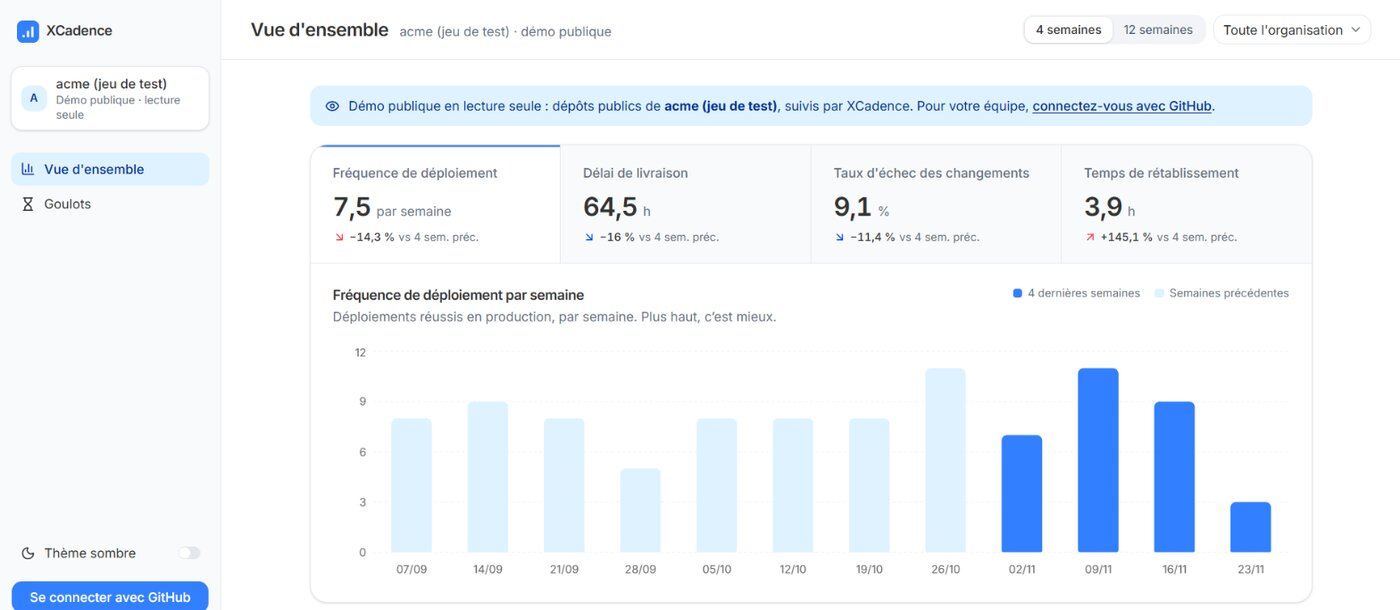
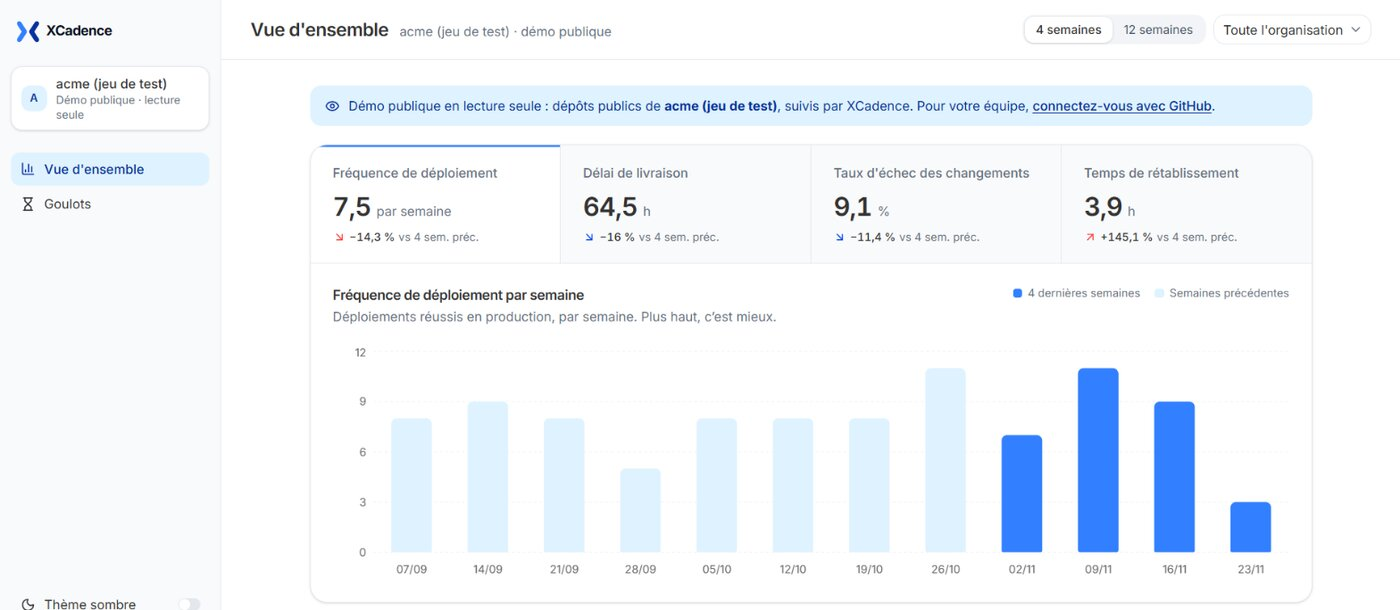
docs: met à jour le README pour la version 0.1.0, captures claire et sombre (#98)
- capture refaite avec le nouveau logo, et sa version sombre (selon le thème GitHub)
- statut : version 0.1.0 en bêta, pas encore hébergée
- démo publique et interface claire ou sombre dans les fonctionnalités
- démarrage rapide : / est la page d'accueil, /demo le tableau de bord du jeu de test

Changed region(s): [[0.0, 0.9033, 0.1536, 1.0], [0.0, 0.0311, 0.0921, 0.0934]]

diff --git a/README.md b/README.md
@@ -7,9 +7,14 @@
 
 **Radar de santé d'équipe tech.** XCadence calcule les métriques DORA et les goulots d'une équipe directement depuis GitHub, et les résume chaque semaine pour le CTO, en 5 minutes de lecture.
 
-![Tableau de bord de XCadence sur le jeu de test : fréquence de déploiement, délai de livraison, taux d'échec des changements, temps de rétablissement](docs/images/tableau-de-bord.jpg)
+<picture>
+  <source media="(prefers-color-scheme: dark)" srcset="docs/images/tableau-de-bord-sombre.jpg">
+  <img src="docs/images/tableau-de-bord.jpg" alt="Tableau de bord de XCadence sur le jeu de test : fréquence de déploiement, délai de livraison, taux d'échec des changements, temps de rétablissement, en onglets, et la métrique choisie semaine par semaine">
+</picture>
 
-_Capture sur le jeu de test (`pnpm db:seed`) : organisation et données fictives._
+_Capture sur le jeu de test (`pnpm db:seed`) : organisation et données fictives. Version claire ou sombre selon votre thème GitHub._
+
+> **Version 0.1.0, bêta.** Les fonctionnalités ci-dessous sont en place et testées ; la version hébergée n'est pas encore en ligne : pour l'essayer, lancez-la en local (démarrage rapide) ou hébergez-la vous-même.
 
 ## Ce que fait XCadence
 
@@ -17,6 +22,8 @@ _Capture sur le jeu de test (`pnpm db:seed`) : organisation et données fictives
 - **Les 4 métriques DORA**, par dépôt et par semaine, avec leur tendance : fréquence de déploiement, délai de livraison, taux d'échec des changements, temps de rétablissement.
 - **Les goulots** : PR qui attendent une revue, PR anciennes, CI lente ou instable.
 - **Un résumé hebdomadaire** de 5 lignes, écrit par une IA et vérifié chiffre par chiffre, envoyé par email chaque lundi.
+- **Une démo publique** en lecture seule, sur des dépôts publics, sans compte ni installation.
+- **Une interface claire ou sombre**, responsive du téléphone au grand écran.
 
 **Ce que XCadence ne fait pas :** classer ou noter des développeurs. L'outil mesure l'équipe et le processus, jamais la performance individuelle. Il ne stocke aucun code source, seulement des métadonnées (dates, tailles, statuts).
 
@@ -35,7 +42,7 @@ Vous n'installez que **Docker** et **VS Code** avec l'extension **Dev Containers
    pnpm db:seed      # charge le jeu de test : une organisation fictive, 90 jours d'activité
    pnpm dev          # lance l'API (4000), le worker et le web (3000)
    ```
-4. Ouvrez **http://localhost:3000/demo** : le tableau de bord et les goulots du jeu de test, sans compte ni GitHub App.
+4. Ouvrez **http://localhost:3000** : la page d'accueil ; puis **/demo** pour le tableau de bord et les goulots du jeu de test, sans compte ni GitHub App.
 
 Pour suivre vos propres dépôts, créez votre GitHub App de développement et renseignez ses variables dans `.env` : voir [docs/06-ENVIRONNEMENT.md](docs/06-ENVIRONNEMENT.md#la-github-app-de-développement).
 
